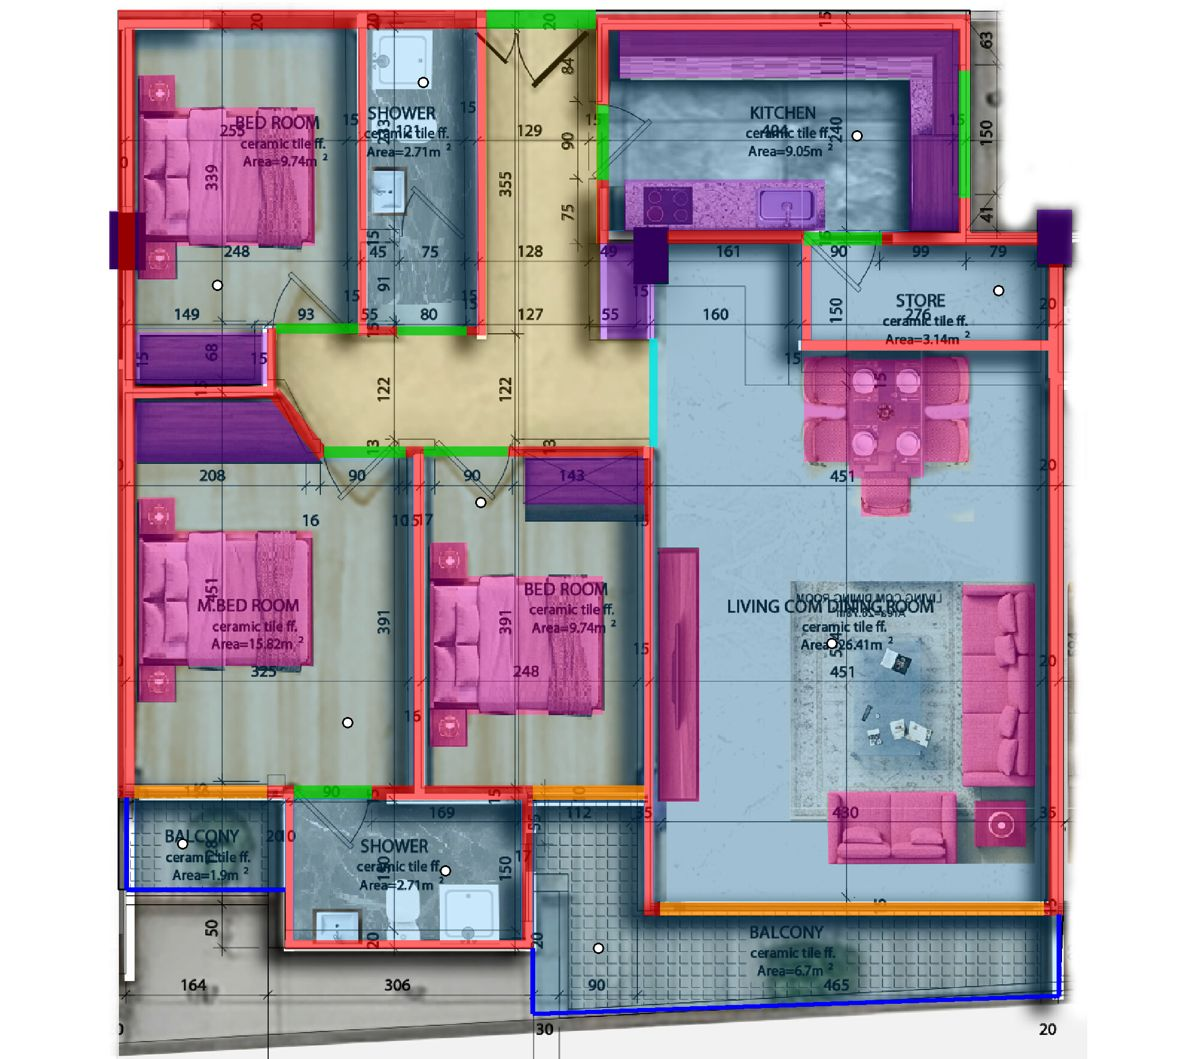
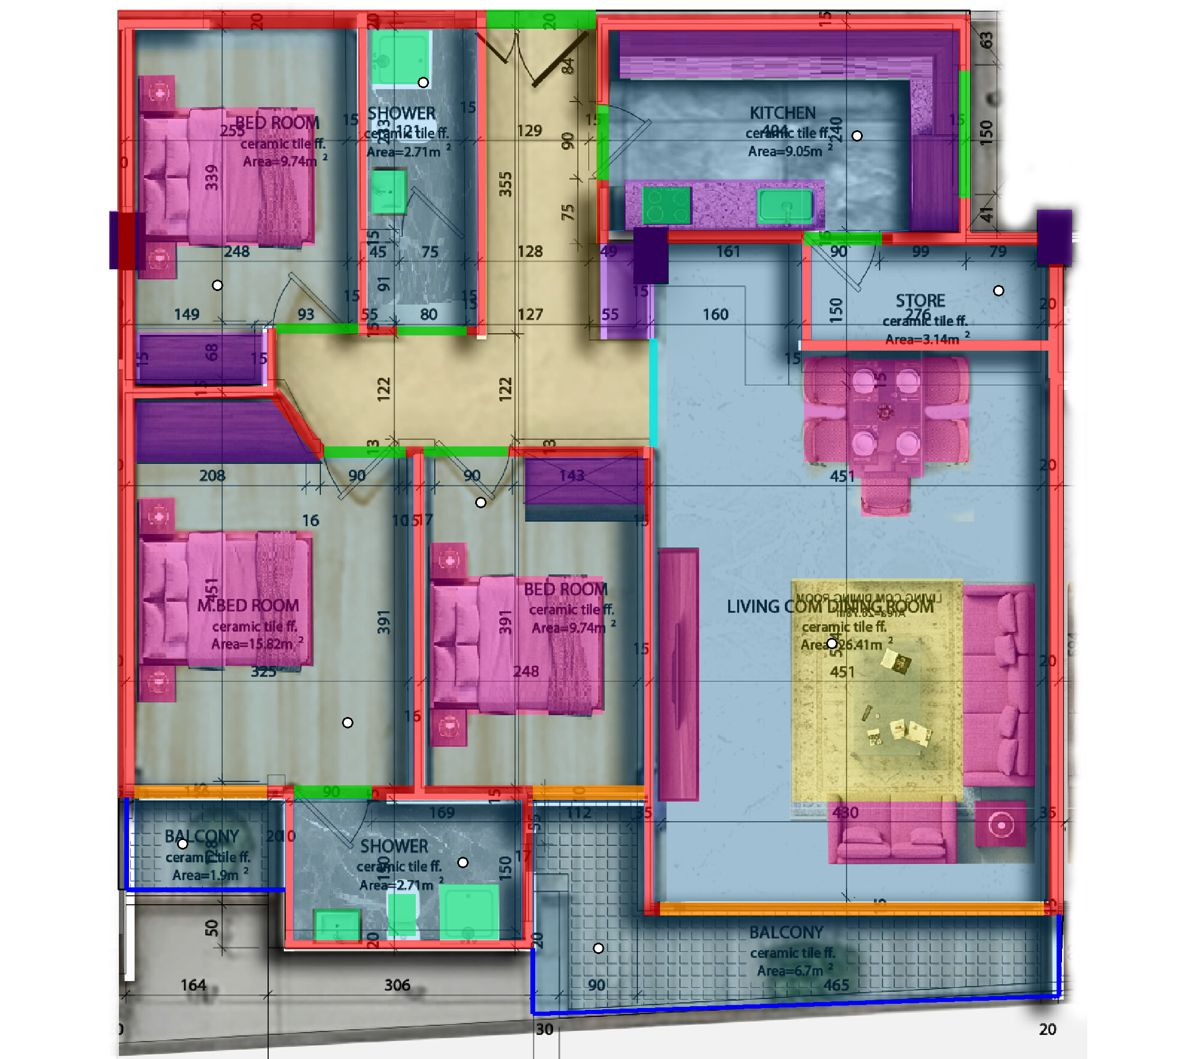
Trace BL05's bathroom and kitchen fixtures (DESIGN rev 10.2)
- Real 3D furniture needs to know what each block is and where the fittings are
- Only fittings the plan draws are added; missing ones are noted, not invented

diff --git a/docs/design/units/trace-bl05.py b/docs/design/units/trace-bl05.py
@@ -103,6 +103,22 @@ F('f-dining',(1415,600,1540,795),0.75,'#4A3A2C'); F('f-chairs-w',(1340,595,1415,
 F('f-sofa-e',(1605,975,1725,1310),0.8,'#CFC3B1'); F('f-sofa-s',(1380,1320,1595,1440),0.8,'#CFC3B1')
 F('f-tv',(1098,915,1165,1335),0.5,'#5C4636'); F('f-side',(1625,1335,1710,1410),0.55,'#5C4636')
 
+# rev 10 F2: fixtures the plan draws, the rug, and a `piece` for each furniture block (DESIGN §9.10 F1–F2).
+def X(id,kind,r,h,**kw):
+    x0,y0,x1,y1=r; d={'id':id,'kind':kind,'poly':[m(x0,y0),m(x1,y0),m(x1,y1),m(x0,y1)],'h':h}; d.update(kw); solids.append(d)
+X('x-shower1-tray','shower',(620,52,715,140),0.08)
+X('x-shower1-basin','basin',(620,285,678,355),0.85)
+X('x-shower2-basin','basin',(525,1515,600,1566),0.85)
+X('x-shower2-wc','wc',(648,1490,692,1560),0.42)
+X('x-shower2-tray','shower',(733,1475,830,1565),0.08)
+X('x-kitchen-hob','hob',(1070,312,1150,372),0.92,on='k-island')
+X('x-kitchen-sink','sink',(1262,315,1352,372),0.92,on='k-island')
+X('x-living-rug','rug',(1320,965,1605,1335),0.01)
+PIECE=(('-ns','nightstand'),('f-bed','bed'),('f-mbed','bed'),('f-sofa','sofa'),('f-dining','dining'),('f-chair','chair'),('f-tv','tvUnit'),('f-side','sideTable'))
+for s_ in solids:
+    if s_['kind']=='furniture':
+        s_['piece']=next(v for k,v in PIECE if k in s_['id'])
+
 def R(id,name,area,poly,label_px):
     return {'id':id,'name':name,'area':area,'poly':[m(*p) for p in poly],'label':m(*label_px)}
 rooms=[
@@ -121,8 +137,10 @@ hall={'id':'hall','name':None,'area':None,'poly':[m(*p) for p in [(809,47),(995,
 footprint=[m(*p) for p in [(197,17),(1617,17),(1617,390),(1772,390),(1772,1525),(1765,1660),(888,1690),(888,1580),(476,1580),(476,1483),(197,1483)]]
 import sys; sys.path.insert(0, os.path.dirname(__file__))
 from trace_lib import stand_point
+SMALL=('rug','shower','hob','sink')  # flat or on a counter: they don't block standing room
 for r_ in rooms:
-    sp=stand_point(r_['poly'],solids)
+    r_['finish']='tile'  # every BL05 room is labelled "ceramic tile ff."
+    sp=stand_point(r_['poly'],[s_ for s_ in solids if s_['kind'] not in SMALL])
     if sp: r_['stand']=sp[:2]; r_['standClearance']=sp[2]
 crop=(180,0,1800,1765)
 data={
@@ -134,7 +152,7 @@ data={
             'plane':{'minX':m(crop[0],crop[1])[0],'minZ':m(crop[0],crop[1])[1],'maxX':m(crop[2],crop[3])[0],'maxZ':m(crop[2],crop[3])[1]},
             'note':'UV = ((x-minX)/(maxX-minX), 1-(z-minZ)/(maxZ-minZ)); the texture is the crop resized to 1024 px wide'},
  'defaults':{'wallH':2.8,'modelCutH':2.4,'cutawayH':1.0,'doorHead':2.1,'note':'Heights are not on the plans: 2.8 m storey wall, 2.1 m door head, sills as listed. Illustrative.'},
- 'footprint':footprint,'walls':walls,'openings':openings,'walkable':[],'railings':railings,'solids':solids,'rooms':rooms,'hall':hall,
+ 'fixturesNote':'Fixtures are only those the plan draws clearly. The first shower room shows a tray and a basin; no WC is legible there, so none is modelled. The kitchen shows a hob and a sink and no fridge.','footprint':footprint,'walls':walls,'openings':openings,'walkable':[],'railings':railings,'solids':solids,'rooms':rooms,'hall':hall,
 }
 s=json.dumps(data,separators=(',',':'),ensure_ascii=False)
 open(ROOT+'docs/design/units/bl05.json','w').write(s)
@@ -146,7 +164,7 @@ P=lambda p:(p[0]*SX+OX,p[1]*SY+OY)
 for r in rooms: d.polygon([P(p) for p in r['poly']],fill=(0,160,255,50),outline=(0,120,255,255))
 d.polygon([P(p) for p in hall['poly']],fill=(255,200,0,40),outline=(200,150,0,255))
 d.line([P(p) for p in footprint+[footprint[0]]],fill=(0,0,0,255),width=3)
-for s_ in solids: d.polygon([P(p) for p in s_['poly']],fill=(255,0,200,90) if s_['kind']=='furniture' else (140,0,255,90))
+for s_ in solids: d.polygon([P(p) for p in s_['poly']],fill=(255,0,200,90) if s_['kind']=='furniture' else (0,220,120,170) if s_['kind'] in ('shower','basin','wc','hob','sink') else (255,255,0,60) if s_['kind']=='rug' else (140,0,255,90))
 import math
 def seg(a,b,t,col):
     ax,ay=P(a);bx,by=P(b);dx,dy=bx-ax,by-ay;L=math.hypot(dx,dy) or 1

diff --git a/docs/DESIGN.md b/docs/DESIGN.md
@@ -2,7 +2,7 @@
 
 Owner: `realstate-frontend-design`. Inputs: `docs/BRIEF.md` (facts and the quality bar) and `CLAUDE.md`. If this spec and the brief disagree on a fact, the brief wins. Everything here is direction and can be refined. If you change direction, say so in this file so the reviewer has something to check against.
 
-**Changelog.** 15 Nov 2026, rev 10.1: the tower's ground storey is 6.3 m, matching the render (§9.9, `tower3d.json`). Rev 10 (user feedback, round 9: real 3D, nothing discarded): new §9.9, a real Three.js tower in a generic city scene with floor pins, a push-in, a slide-out floor and a floor assembled from the nine traced units (the rev 9 photo stage becomes the fallback); new §9.10, a parametric furniture library, PBR materials, tiered light and post-processing, the dive, and an optional "Render this view" path-traced still. Data: `docs/design/tower3d.json`. Rev 9.4 (browser walk of BL05 and BL09): every room has a clear `stand` point for the walk-in camera; ring labels are unique; unlabelled spaces get positional ring labels; BL09's 0.8 m² balcony is not a walk destination (§9.6.1). Rev 9.3: panorama strips use a narrower fov (about 47° at 180°) with pitch about ±4°, so the strip's edges never show (§9.8 B5). Rev 9.2: unit data gains `open` archway openings and `walkable[]` unlabelled spaces for the walk-in rings, in all nine units (§9.6.1); walk-in lamp intensity 6 and an emissive ceiling (§9.8 B3). Rev 9.1 (impl's A1 corrections, accepted): band uses normal blending; stage mask is 60% 55%; image widths cap at 1350; the SVG maquette fallback loads lazily; the Amharic ground chip reuses the legend wording (§9.7, §11). Rev 9 (user feedback, round 8): new §9.7, the photoreal tower stage (the real render with 14 selectable floor bands, a push-in and a slab lift; the Three.js massing is removed), and new §9.8, walk-in mode ("Step inside": eye-level look-around, door rings between rooms, a minimap, and a panorama slot). Also §8, §10, §11, §12 and `docs/AI-RENDERS.md` §D–§E. Finding: the tower render draws 13 typical storeys, so the 14 bands are an even split, not a storey-accurate trace. 15 Nov 2026, rev 8.5 (user requests, BRIEF 761faf2): R1 the Location section always shows the satellite map, with a navy fallback card in place of the SVG diagram, its caption and the opt-in pill (§5.6). R2 the Telegram enquiry is a multi-line message that skips empty fields (§5.8). R3 the "Contact us on Telegram" card and its divider are removed (§5.8). All nine unit data sets are delivered (§9.6.1). 14/15 Nov 2026, rev 8.4: other-unit data format notes (illegible areas → `null`; `corridor` room; shared tracer) (§9.6.1). BL01 data delivered. Rev 8.3 (review round 6 #5): the 3D panel's rooms list goes to 2 columns only from 1200 px (§9.6.7 E). Rev 8.2 (re-check of rev 8.1, §9.6.8): stronger camera fill, greige-oak wardrobes, floor texture v1.5. Rev 8.1 (review of 4e7da27): §9.6.7 accepts impl's deviations 1–5. Hotspots now float above the cut, with leader lines. A camera fill light keeps wall faces cream. The model is cut at 2.4 m with a 60° default elevation, and the fit is 100%. BL05 gains 17 furniture blocks whose tops reuse the plan texture. The panel puts the actions above a 2-column room list. Rev 7.1 (round 5 review): the Save-Data/slow opt-in map opens at z17 with no fly; the two-finger hint moves to 70% height; the map glue budget is now 4 KB (§5.6, §10). Rev 8 (BRIEF "3D apartments", 40c474f): new §9.6, the unit dollhouse. When a unit has 3D geometry, its plan lifts into a Three.js cutaway with room hotspots, a slim side panel and a room card with the AI interior slot (placeholder: the room's plan crop). The pilot is BL05: `docs/design/units/bl05.json` plus its floor texture, check overlay and tracing script. Also §9.2 UNIT, §8, §10, §11, §12. Rev 7 (client, BRIEF Update 2026-11-14 and ea0501e): Location becomes a real Leaflet + Esri World Imagery satellite map with a branded pin at 8.9356809, 38.7299505. The SVG diagram is now only the static fallback (no JS, slow or Save-Data until opted in, tile failure), and "Diagram, not to scale." shows only with it. "Get directions" is switched on; there is an optional Esri key, and the attribution is always visible (§5.6 rewritten, §7.3 S13–S14, §8, §10). A "Contact us on Telegram" card shows the two usernames only. The form hands off to Telegram with a prefilled draft, a copy fallback and a persistent "Finish in Telegram" panel (§5.8). Strings with draft Amharic are in §11, open items in §12. Rev 6 (user decision) (user decision): the film becomes the full hero background with a verified shade, grain, a play control and pause/sound controls (§5.1 rewritten, §5.11, §7.2, §7.3 S1, §8, §10). The rev 5 film card is removed. The Story arch now shows the whole tower (§5.3), and the Enquire arch takes the balconies detail. Rev 5 (BRIEF "Update 2026-11-14"): the tower film and its sound toggle (new §5.11, the hero card in §5.1, §7.2, §7.3 S1, §8, §10); building features band (§5.7: three pillars plus four features); 16 floors (§5.1, §5.2, §9.2); BL01 "to be confirmed" off floors 4, 6, 8, 10, 11 (§5.5, §5.8, §9.1–§9.3); the exact Maps pin (§5.6). Each rev 5 change is tagged "rev 5" where it lives, so later client facts can be slotted in one place at a time. Rev 4: §10 HTML budget raised to 40 KB gzipped (inline CSS by choice). Rev 3 (M2 visual QA): S9 dusk is now a static gradient (the fixed veil dimmed the story copy); §9.4 camera framing numbers, ground disc, look-at clamp, glazing colour. 12 Nov 2026, rev 2: applied review findings 1–10 (`.theme-paper`, `--input-border`, no colour tweens, copy fixes, CSS-only hero reveal, server-rendered hotspot hrefs, font subsetting, blocks internal only, pillar and payment copy, mark as `<symbol>`).
+**Changelog.** 15 Nov 2026, rev 10.2: F2 data format for fixtures, furniture pieces and floor finish; BL05 delivered (§9.10 F2). Rev 10.1: the tower's ground storey is 6.3 m, matching the render (§9.9, `tower3d.json`). Rev 10 (user feedback, round 9: real 3D, nothing discarded): new §9.9, a real Three.js tower in a generic city scene with floor pins, a push-in, a slide-out floor and a floor assembled from the nine traced units (the rev 9 photo stage becomes the fallback); new §9.10, a parametric furniture library, PBR materials, tiered light and post-processing, the dive, and an optional "Render this view" path-traced still. Data: `docs/design/tower3d.json`. Rev 9.4 (browser walk of BL05 and BL09): every room has a clear `stand` point for the walk-in camera; ring labels are unique; unlabelled spaces get positional ring labels; BL09's 0.8 m² balcony is not a walk destination (§9.6.1). Rev 9.3: panorama strips use a narrower fov (about 47° at 180°) with pitch about ±4°, so the strip's edges never show (§9.8 B5). Rev 9.2: unit data gains `open` archway openings and `walkable[]` unlabelled spaces for the walk-in rings, in all nine units (§9.6.1); walk-in lamp intensity 6 and an emissive ceiling (§9.8 B3). Rev 9.1 (impl's A1 corrections, accepted): band uses normal blending; stage mask is 60% 55%; image widths cap at 1350; the SVG maquette fallback loads lazily; the Amharic ground chip reuses the legend wording (§9.7, §11). Rev 9 (user feedback, round 8): new §9.7, the photoreal tower stage (the real render with 14 selectable floor bands, a push-in and a slab lift; the Three.js massing is removed), and new §9.8, walk-in mode ("Step inside": eye-level look-around, door rings between rooms, a minimap, and a panorama slot). Also §8, §10, §11, §12 and `docs/AI-RENDERS.md` §D–§E. Finding: the tower render draws 13 typical storeys, so the 14 bands are an even split, not a storey-accurate trace. 15 Nov 2026, rev 8.5 (user requests, BRIEF 761faf2): R1 the Location section always shows the satellite map, with a navy fallback card in place of the SVG diagram, its caption and the opt-in pill (§5.6). R2 the Telegram enquiry is a multi-line message that skips empty fields (§5.8). R3 the "Contact us on Telegram" card and its divider are removed (§5.8). All nine unit data sets are delivered (§9.6.1). 14/15 Nov 2026, rev 8.4: other-unit data format notes (illegible areas → `null`; `corridor` room; shared tracer) (§9.6.1). BL01 data delivered. Rev 8.3 (review round 6 #5): the 3D panel's rooms list goes to 2 columns only from 1200 px (§9.6.7 E). Rev 8.2 (re-check of rev 8.1, §9.6.8): stronger camera fill, greige-oak wardrobes, floor texture v1.5. Rev 8.1 (review of 4e7da27): §9.6.7 accepts impl's deviations 1–5. Hotspots now float above the cut, with leader lines. A camera fill light keeps wall faces cream. The model is cut at 2.4 m with a 60° default elevation, and the fit is 100%. BL05 gains 17 furniture blocks whose tops reuse the plan texture. The panel puts the actions above a 2-column room list. Rev 7.1 (round 5 review): the Save-Data/slow opt-in map opens at z17 with no fly; the two-finger hint moves to 70% height; the map glue budget is now 4 KB (§5.6, §10). Rev 8 (BRIEF "3D apartments", 40c474f): new §9.6, the unit dollhouse. When a unit has 3D geometry, its plan lifts into a Three.js cutaway with room hotspots, a slim side panel and a room card with the AI interior slot (placeholder: the room's plan crop). The pilot is BL05: `docs/design/units/bl05.json` plus its floor texture, check overlay and tracing script. Also §9.2 UNIT, §8, §10, §11, §12. Rev 7 (client, BRIEF Update 2026-11-14 and ea0501e): Location becomes a real Leaflet + Esri World Imagery satellite map with a branded pin at 8.9356809, 38.7299505. The SVG diagram is now only the static fallback (no JS, slow or Save-Data until opted in, tile failure), and "Diagram, not to scale." shows only with it. "Get directions" is switched on; there is an optional Esri key, and the attribution is always visible (§5.6 rewritten, §7.3 S13–S14, §8, §10). A "Contact us on Telegram" card shows the two usernames only. The form hands off to Telegram with a prefilled draft, a copy fallback and a persistent "Finish in Telegram" panel (§5.8). Strings with draft Amharic are in §11, open items in §12. Rev 6 (user decision) (user decision): the film becomes the full hero background with a verified shade, grain, a play control and pause/sound controls (§5.1 rewritten, §5.11, §7.2, §7.3 S1, §8, §10). The rev 5 film card is removed. The Story arch now shows the whole tower (§5.3), and the Enquire arch takes the balconies detail. Rev 5 (BRIEF "Update 2026-11-14"): the tower film and its sound toggle (new §5.11, the hero card in §5.1, §7.2, §7.3 S1, §8, §10); building features band (§5.7: three pillars plus four features); 16 floors (§5.1, §5.2, §9.2); BL01 "to be confirmed" off floors 4, 6, 8, 10, 11 (§5.5, §5.8, §9.1–§9.3); the exact Maps pin (§5.6). Each rev 5 change is tagged "rev 5" where it lives, so later client facts can be slotted in one place at a time. Rev 4: §10 HTML budget raised to 40 KB gzipped (inline CSS by choice). Rev 3 (M2 visual QA): S9 dusk is now a static gradient (the fixed veil dimmed the story copy); §9.4 camera framing numbers, ground disc, look-at clamp, glazing colour. 12 Nov 2026, rev 2: applied review findings 1–10 (`.theme-paper`, `--input-border`, no colour tweens, copy fixes, CSS-only hero reveal, server-rendered hotspot hrefs, font subsetting, blocks internal only, pillar and payment copy, mark as `<symbol>`).
 
 **Design assets this spec relies on (all in the repo):**
 
@@ -1666,7 +1666,14 @@ Rules:
 - Budget: ≤ 25k triangles per unit at the full tier, ≤ 4k at the low tier.
 - The traced furniture rectangles keep driving placement. The plan-art lid is no longer used on furniture.
 
-**F2. Fixtures the plans draw (data follow-up, not yet delivered).** The unit JSONs don't yet carry WCs, basins, shower trays, kitchen sinks, hobs or fridges. Design will trace them from each plan as `solids` of the new kinds above, plus `kind` refinements for existing furniture (`bed`, `nightstand`, `sofa`, `dining`, `chair`, `tvUnit`, `sideTable`, `rug`), **one unit at a time, BL05 first**. Only fixtures the plan draws are added; no fridge unless the plan shows one. Until a unit's data is refined, the library infers the kind from the block's id prefix (`f-bed…`, `f-sofa…`, `f-dining`, `f-chair…`, `f-tv`, `f-side`, and `…-ns…` for nightstands), which every unit already follows.
+**F2. Fixtures the plans draw (data follow-up, not yet delivered).** The unit JSONs don't yet carry WCs, basins, shower trays, kitchen sinks, hobs or fridges. Design will trace them from each plan as `solids` of the new kinds above, plus `kind` refinements for existing furniture (`bed`, `nightstand`, `sofa`, `dining`, `chair`, `tvUnit`, `sideTable`, `rug`), **one unit at a time, BL05 first**. Only fixtures the plan draws are added; no fridge unless the plan shows one. **Format (rev 10.2, BL05 delivered):**
+- New `solids[].kind` values: `shower` (tray, h 0.08), `basin` (h 0.85), `wc` (h 0.42), `hob` and `sink` (h 0.92, with `on` naming the counter they sit in), `rug` (h 0.01), and later `fridge` where a plan draws one. They are green in the check images; the rug is yellow.
+- Every `furniture` solid gains `piece`: `bed`, `nightstand`, `sofa`, `dining`, `chair`, `tvUnit` or `sideTable`.
+- Every room gains `finish`: `tile` or `parquet`, from the plan's own label.
+- `fixturesNote` says what the plan does and doesn't draw. For BL05: the first shower room shows a tray and a basin but no legible WC, so none is modelled; the kitchen shows a hob and a sink and no fridge.
+- Standpoints ignore rugs, trays, hobs and sinks, since they don't block standing room.
+
+Until a unit's data is refined, the library infers the kind from the block's id prefix (`f-bed…`, `f-sofa…`, `f-dining`, `f-chair…`, `f-tv`, `f-side`, and `…-ns…` for nightstands), which every unit already follows.
 
 **F3. Materials (PBR, CC0).** `MeshStandardMaterial` throughout, in place of Lambert.
 
